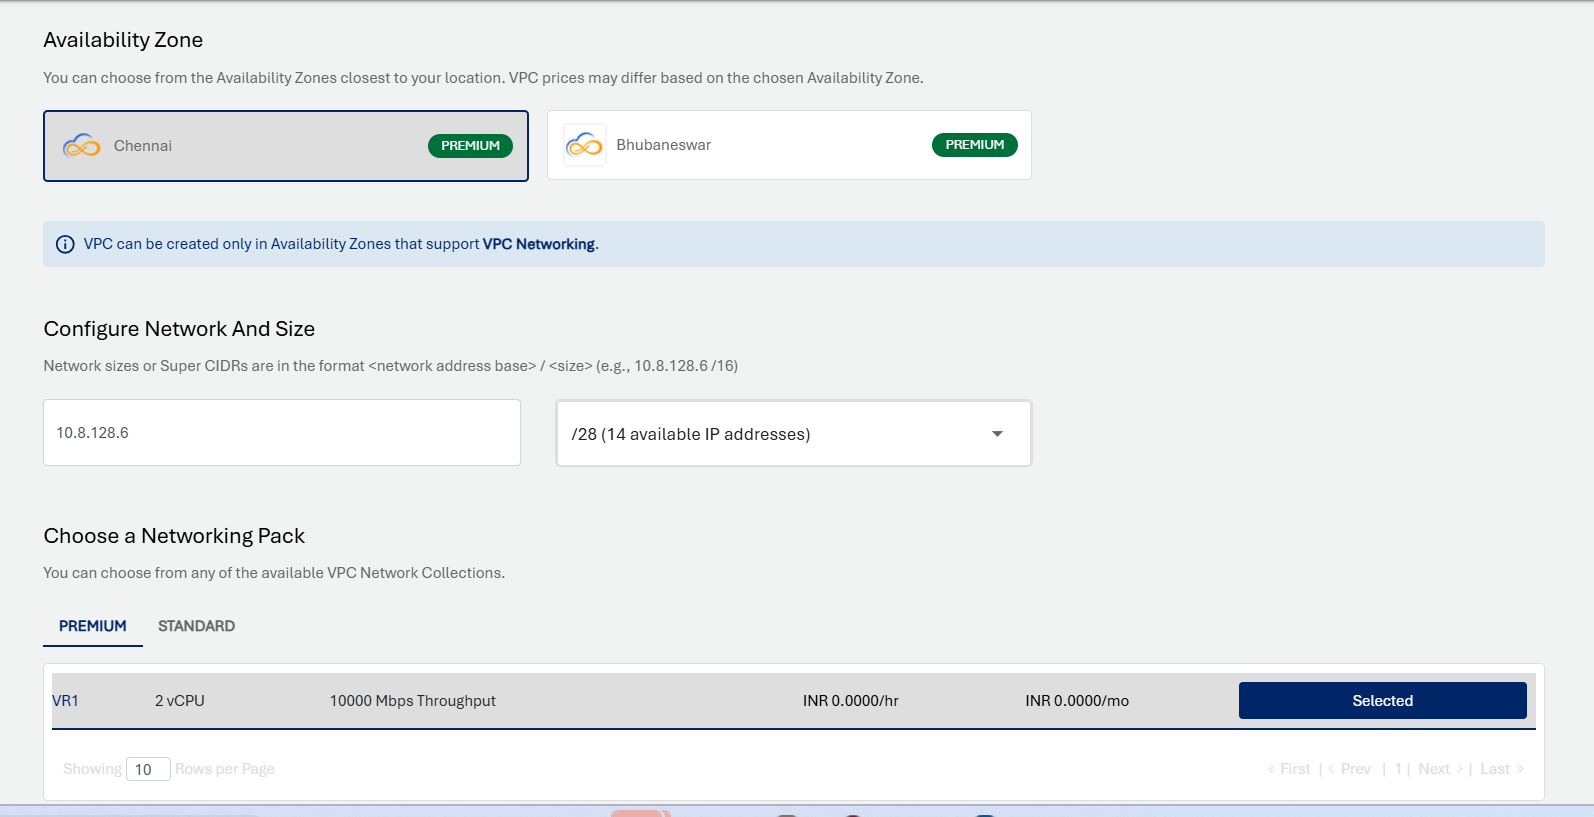
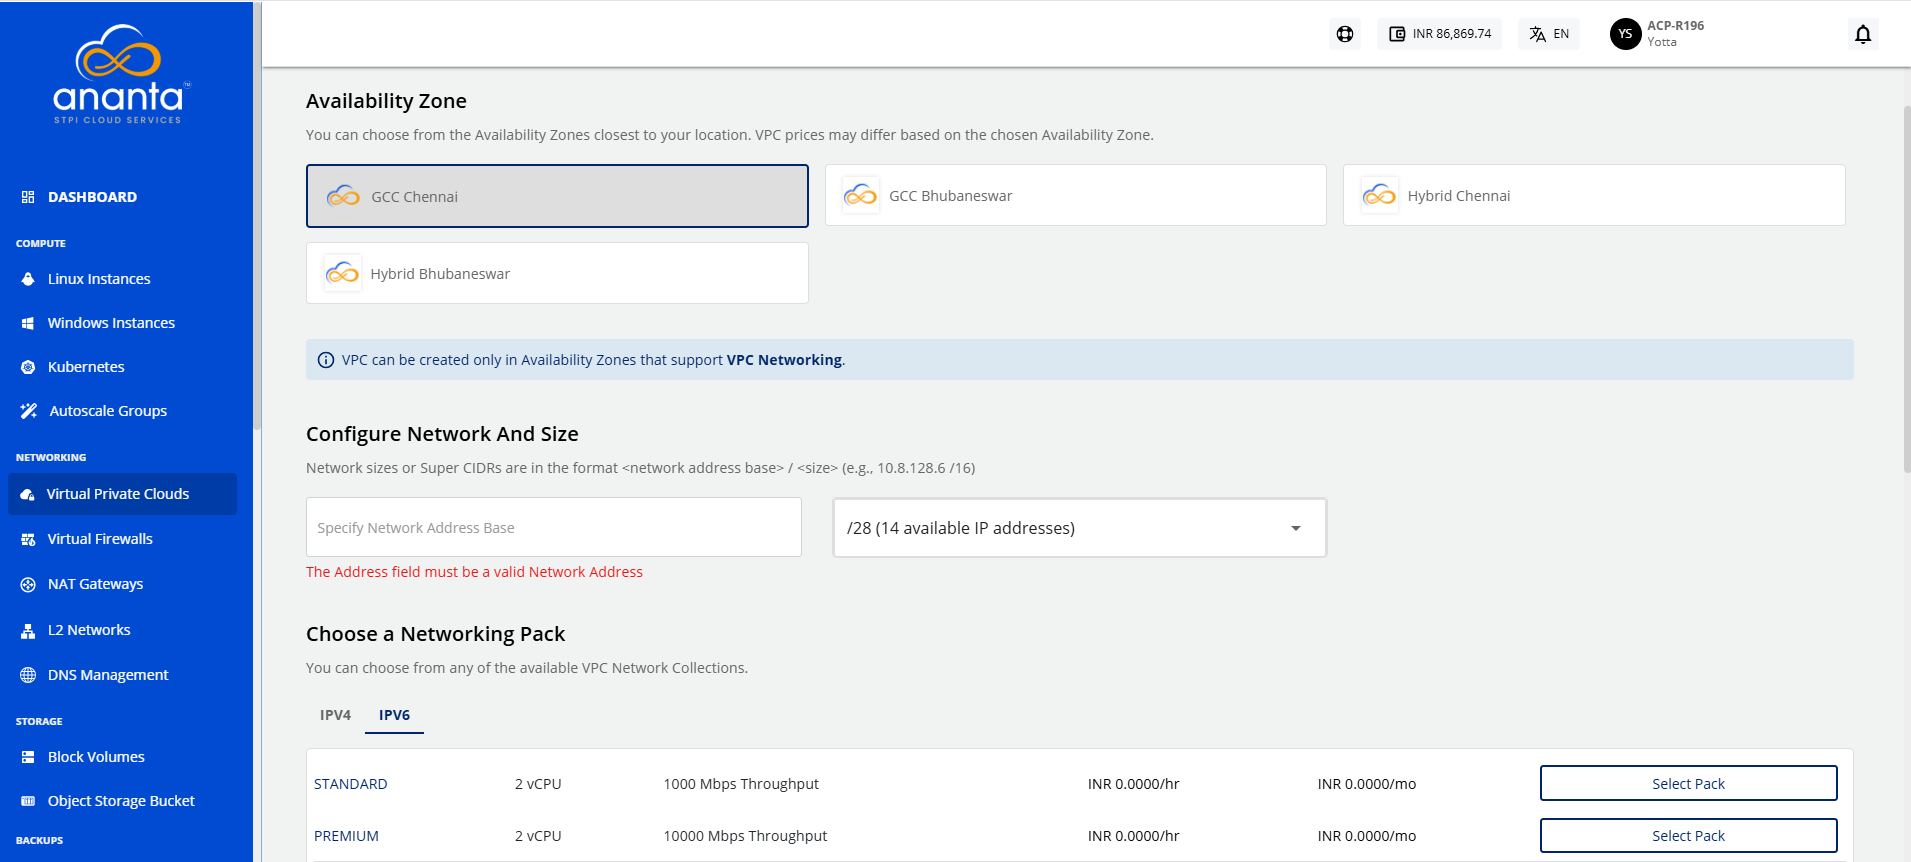
Updates

diff --git a/docs/Networking/FirewallandSecurity/AddingInstancetoaVFI-basedNetwork/AddingLinuxInstance.md b/docs/Networking/FirewallandSecurity/AddingInstancetoaVFI-basedNetwork/AddingLinuxInstance.md
@@ -13,21 +13,20 @@ To create a Linux instance, follow these steps:
 6. **Choose a Compute Pack** from the available compute collections.  
 	 ![Compute Pack](img/ComputePack.png)
 7. **Choose a Root Disk** from the available options.
-8. Select the option to **Protect this Instance**.
-9. In **Choose Instant Apps**, select the available applications. To Verify/Login into your selected database, refer to App Overlays. 
+8. In **Choose Instant Apps**, select the available applications. To Verify/Login into your selected database, refer to App Overlays. 
     ![Root Disk](img/RootDisk.png)
-10. **Choose an Authentication Method**:
+9. **Choose an Authentication Method**:
     - **Use SSH key pair**: Click on the Use SSH key pair option; all the SSH key pairs present in your account will be listed. If your account does not have any SSH key pair, then you can click the **Generate a new key pair** option or upload the key pair by clicking the **Upload a key pair** option. 
     - **Use root user password**: On selecting Use root user password, the **Also email me the password** option is displayed. If you select this option, the password, along with the details, for instance, will be emailed to your registered email ID.
-11. In the **Name Your Linux Instance** field, enter the desired name for your Linux Instance. The Instance name must only contain alphanumeric characters, underscore, dots and hyphens. 
+10. In the **Name Your Linux Instance** field, enter the desired name for your Linux Instance. The Instance name must only contain alphanumeric characters, underscore, dots and hyphens. 
     ![Authentication Method](img/LinuxInstance.png)
-12. Under the **Summary and Estimated Costs** section, verify the estimated cost of your Linux Instance based on the chosen specifications.
-13. To confirm, click on the check box after reviewing the policies mentioned by your cloud service provider.
-14. Click on the **BUY HOURLY** or **BUY MONTHLY** button. The Confirm Instance Purchase window appears, and the price summary is displayed along with the discount codes if you have any in your account. 
+11. Under the **Summary and Estimated Costs** section, verify the estimated cost of your Linux Instance based on the chosen specifications.
+12. To confirm, click on the check box after reviewing the policies mentioned by your cloud service provider.
+13. Click on the **BUY HOURLY** or **BUY MONTHLY** button. The Confirm Instance Purchase window appears, and the price summary is displayed along with the discount codes if you have any in your account. 
     - You can apply any of the discount codes listed by clicking on the **APPLY** button. 
     - You can also remove the applied discount code by clicking the **REMOVE** button. 
     - You can cancel your action by clicking the **CANCEL** button.
-15. To create the Linux Instance, click on the **CONFIRM** button.
+14. To create the Linux Instance, click on the **CONFIRM** button.
     ![Cost](img/Cost.png)
 
 :::note

diff --git a/docs/Networking/FirewallandSecurity/AddingInstancetoaVFI-basedNetwork/AddingWindowsInstance.md b/docs/Networking/FirewallandSecurity/AddingInstancetoaVFI-basedNetwork/AddingWindowsInstance.md
@@ -14,11 +14,10 @@ To create a Windows instance, follow these steps:
 	To add a Windows Instance to a VPC, you need to have a VPC configured with at least one tier.
 	:::
 	![Windows Instance](img/WindowsInstance4.png)
-6. Choose an Image to run on your Instance. This can be an operating system or a custom image that is available under **MY IMAGES.**
+6. Choose an OS Image to run on your Instance. 
 7. Choose a compute pack from the available compute collections.
-   ![Compute Pack](img/ComputePack.png)
 8. Choose a Root disk from the available Disk packs, or you can use the free size option to specify the Root Disk.
-   ![Root Disk](img/RootDisk.png)
+   ![Root Disk](img/WindowsRootDisk.png)
 9. Verify the Estimated Cost of your Windows Instance based on the specifications you have   chosen from the Summary and Estimated Costs Section (Here, both Hourly and Monthly Prices summary will be displayed)
 10. After reviewing the policies provided by your cloud service provider, click the checkbox.
 11. To view the price summary and any discount codes in your account, click the **BUY HOURLY** or **BUY MONTHLY** button.

diff --git a/docs/Networking/VirtualPrivateClouds/CreateListandViewVPCs.md b/docs/Networking/VirtualPrivateClouds/CreateListandViewVPCs.md
@@ -12,7 +12,7 @@ To create a VPC, follow these steps:
    ![VPC Creation](img/VPCCreation1.png)
 3. Choose an Availability Zone, which is the geographical region where your VPC will be configured.
 4. Specify network address base size and select size i.e. The **super CIDR** for the internal IP allocation in an x.x.x.x/x format.
-5. Choose a Networking pack from the available network collections. 
+5. Choose a Networking pack (IPV4 or IPV6) from the available network collections. 
    ![VPC Creation](img/VPCCreation2.png)
 6. Select the default IPV4 address for VPC Networking so that the VPC network will be created with a new Public IP address.
 7. Verify the Estimated Cost of your VPC, based on the options that you have chosen from the Summary and Estimated Costs Section( Here, both the Hourly and Monthly Prices summary will be displayed).
